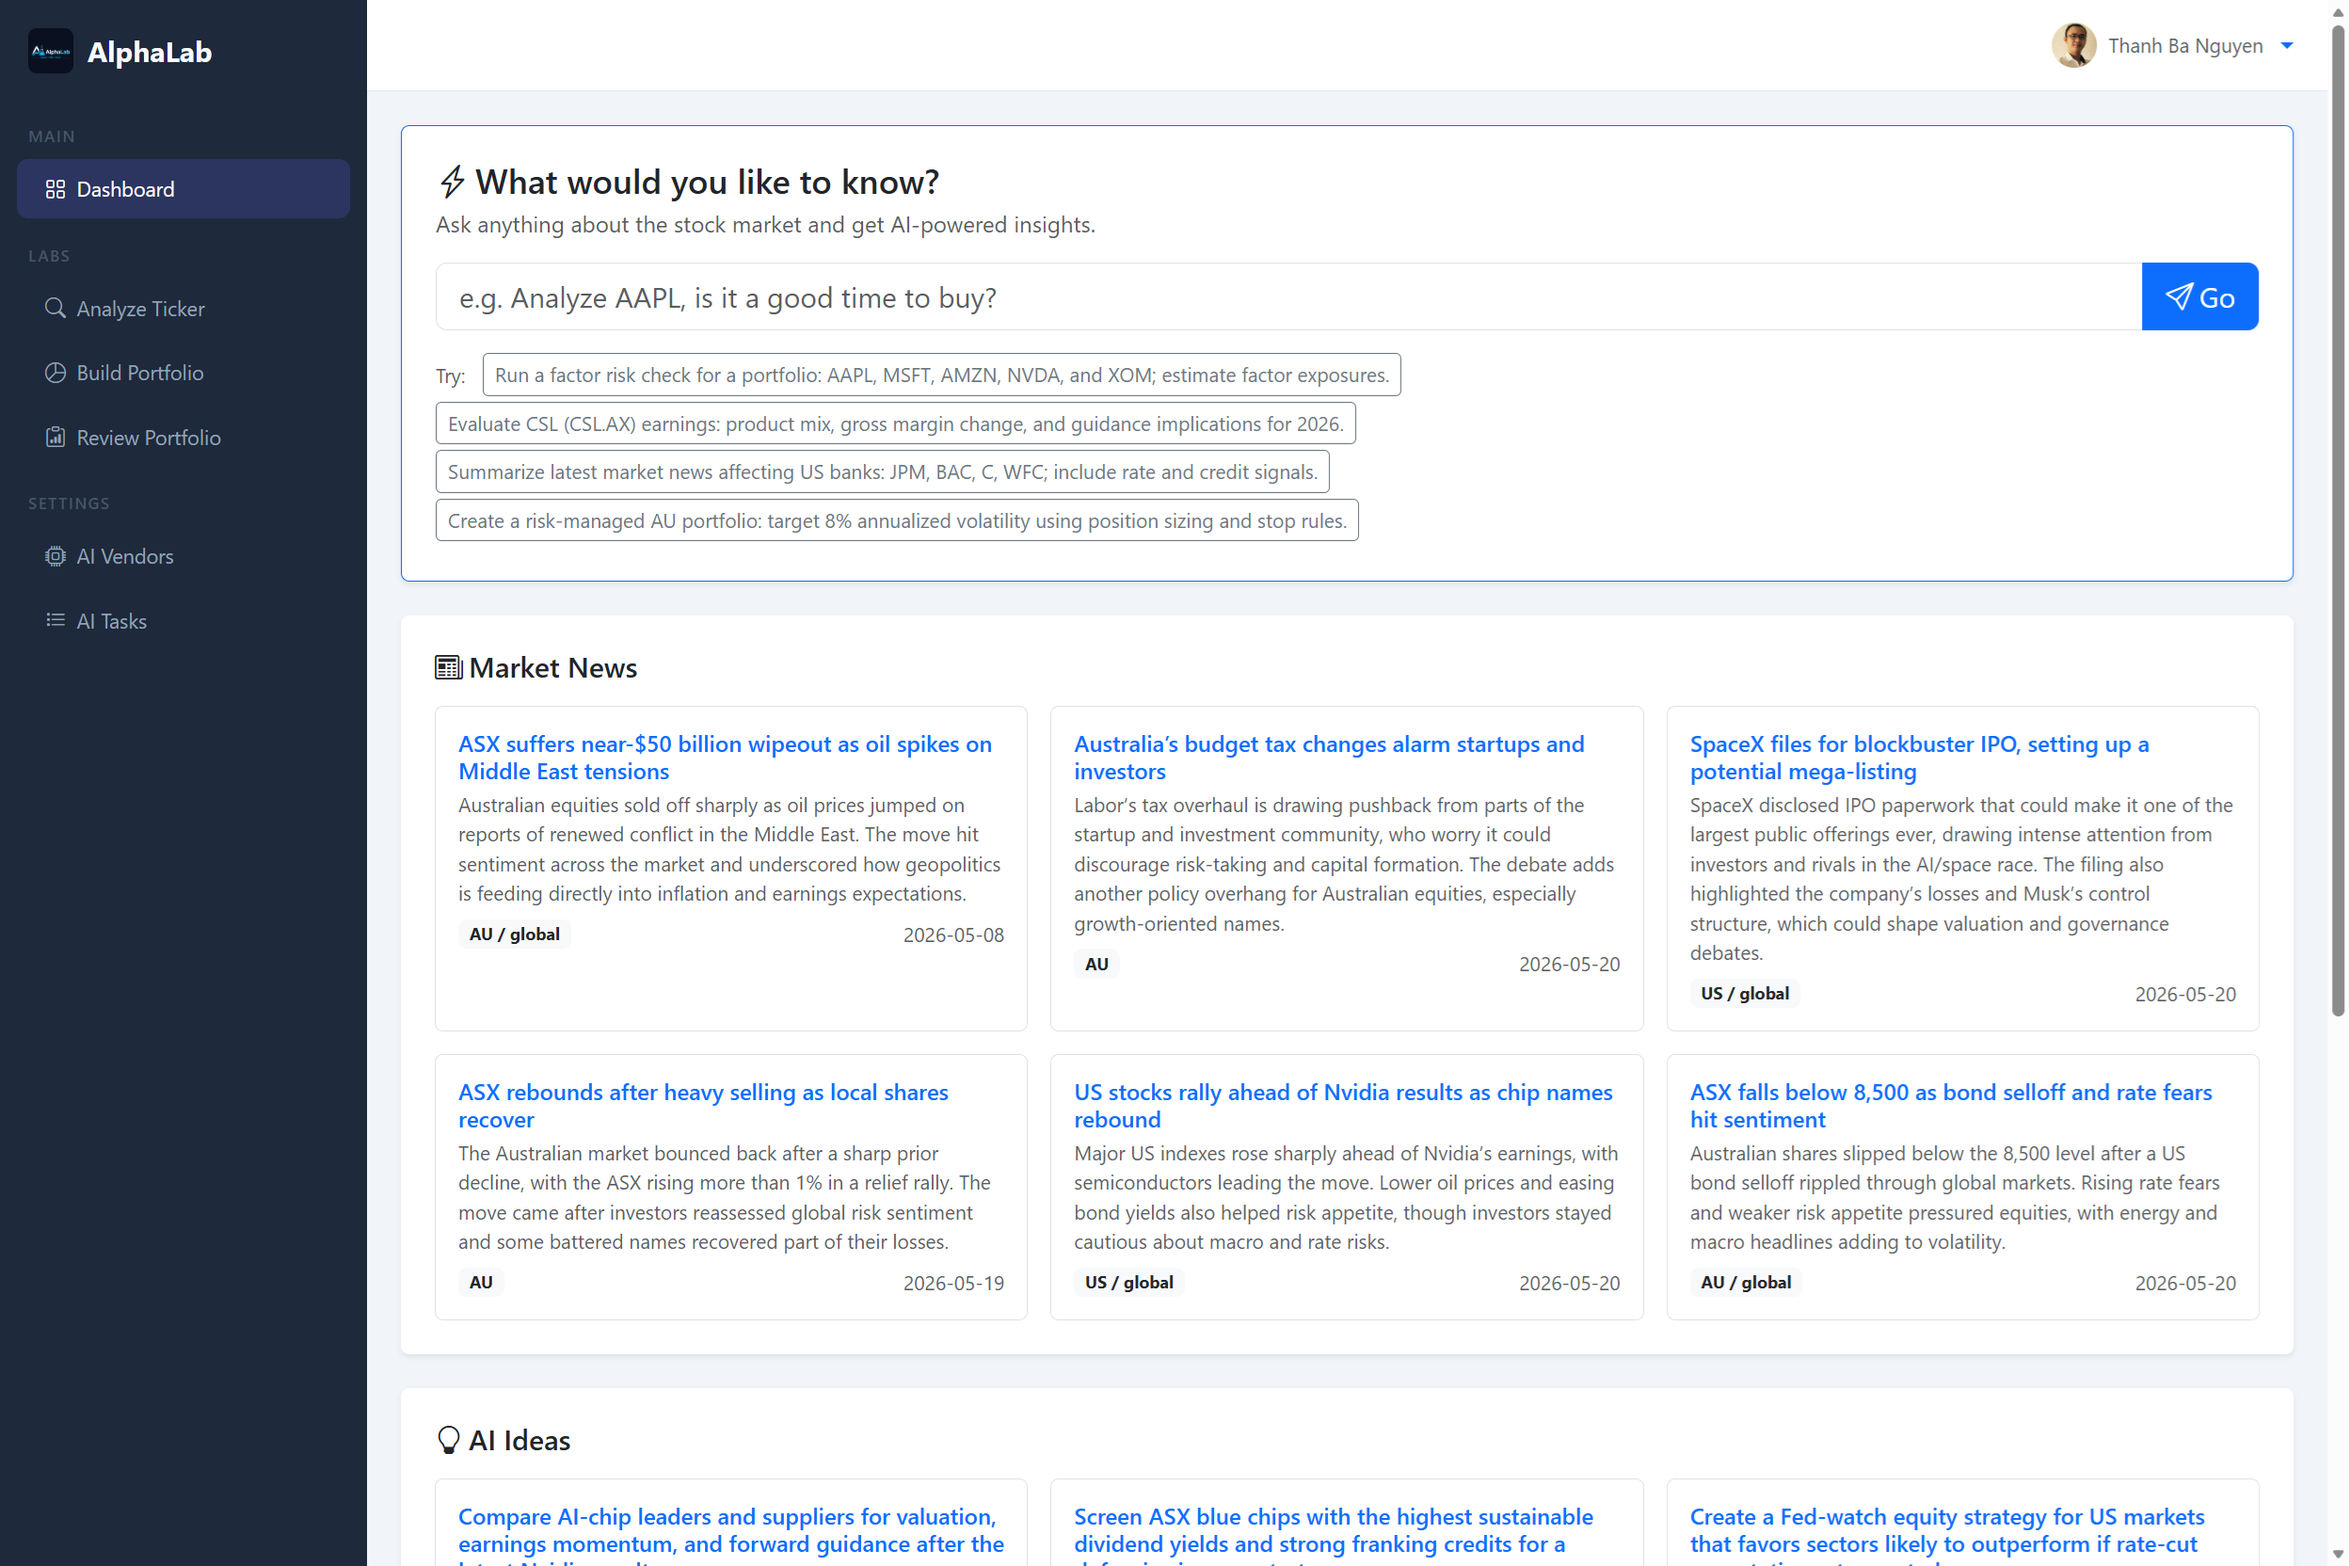
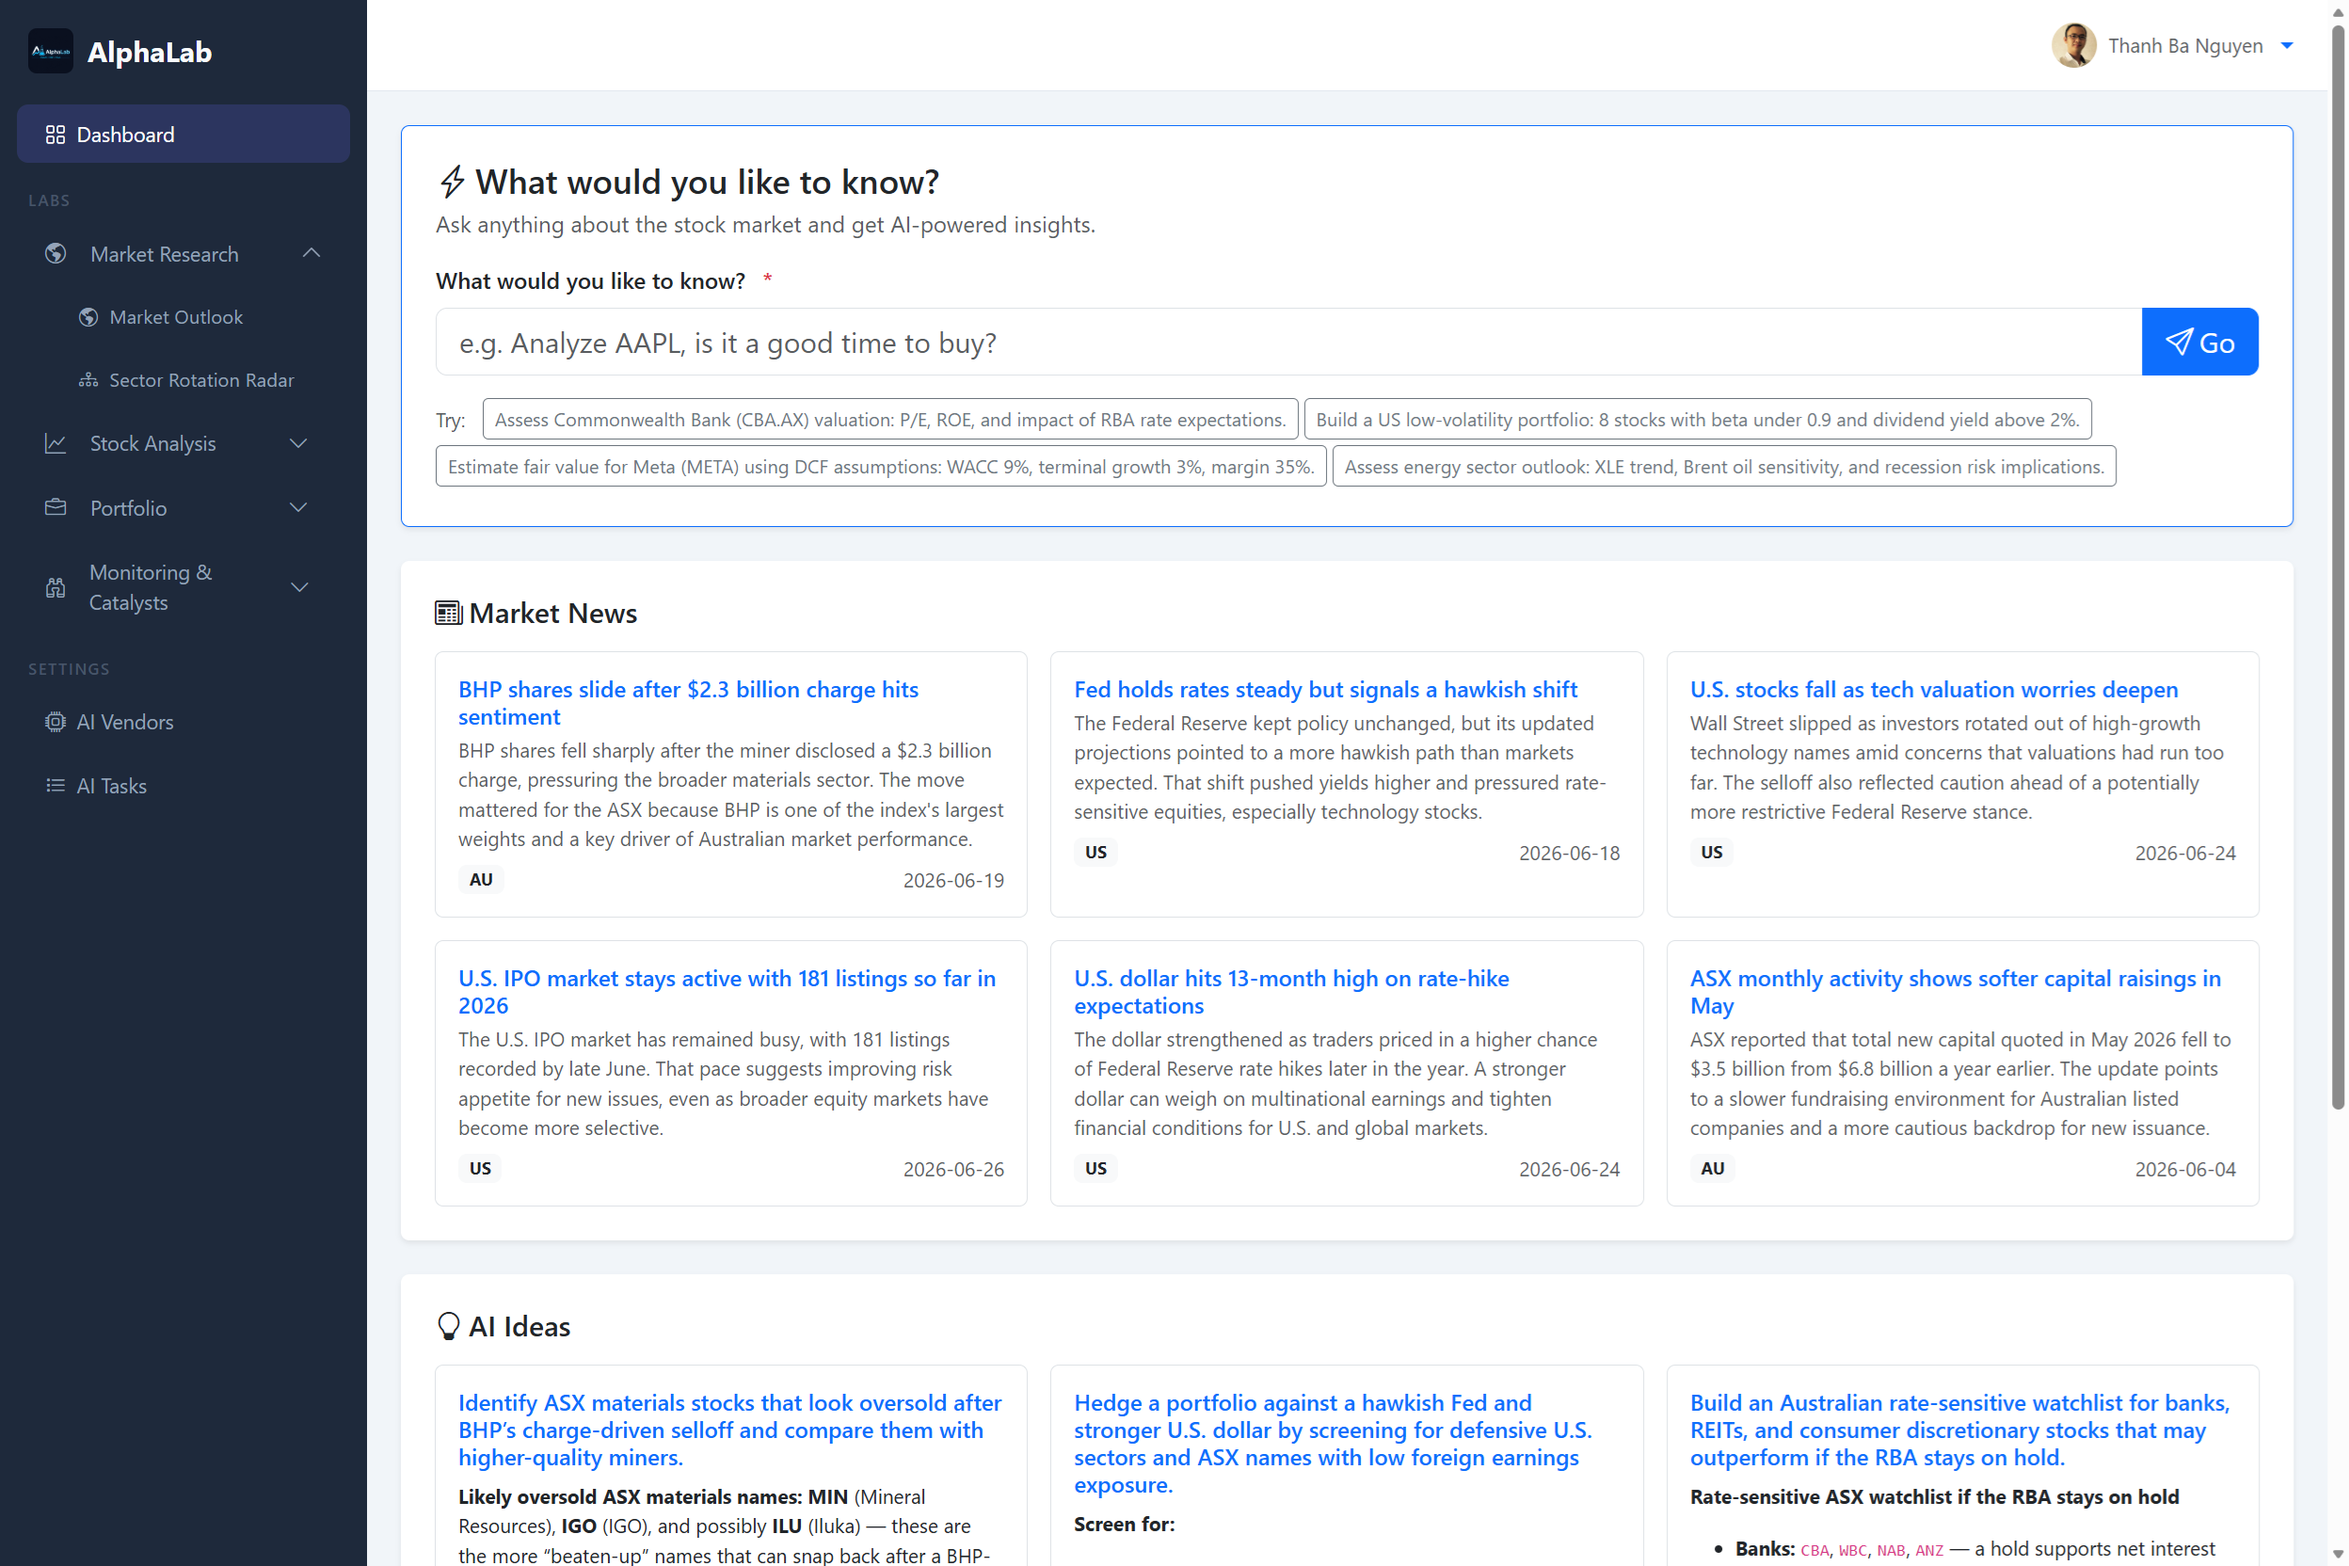
Add feature Earnings Catalyst Tracker

diff --git a/tests/test_earnings_catalyst_tracker_prompt.py b/tests/test_earnings_catalyst_tracker_prompt.py
@@ -1,0 +1,16 @@
+"""Unit tests for the earnings catalyst tracker prompt builder."""
+
+from app.routers import earnings_catalyst_tracker
+
+
+class TestEarningsCatalystTrackerPrompt:
+    def test_uses_default_target_market_and_event_focus_when_missing(self) -> None:
+        prompt = earnings_catalyst_tracker._build_prompt_request(
+            tickers="AAPL, MSFT",
+            target_market="",
+            event_focus="",
+        )
+
+        assert "- Tickers: AAPL, MSFT" in prompt
+        assert "- Target market: US" in prompt
+        assert "- Event focus: All upcoming earnings catalysts" in prompt

diff --git a/README.md b/README.md
@@ -6,10 +6,24 @@ AI-powered market research lab.
 
 ## ✨Features
 
+- **Dashboard (Freestyle Mode)** Ask anything about the stock market in natural language and get AI-powered insights, plus a market news feed and AI-generated ideas.
+
+**Market Research**
+- **Market Outlook** Get an AI-generated outlook across one or more markets, covering index movements, sector rotations, and macro drivers.
+- **Sector Rotation Radar** Identify which sectors are gaining or losing momentum across multiple time horizons for a target market.
+
+**Stock Analysis**
 - **Analyze Ticker** Perform AI-driven analysis for individual stocks or ETFs using market data, technical signals, macro context, and sentiment insights.
+- **IPO / Listing Event** Analyze an upcoming or recent IPO / listing event, including valuation, risks, and outlook.
+- **Dividend Event** Evaluate a dividend event with yield, sustainability, ex-dividend timing, and tax considerations.
+
+**Portfolio**
 - **Build Portfolio** Generate a portfolio from scratch based on investor goals, risk tolerance, time horizon, market preference, and investment themes.
-- **Review Portfolio** Review an existing portfolio and identify strengths, weaknesses, concentration risks, and optimization opportunities.
-- **Freestyle Mode** Interact with the AI freely using natural language prompts for custom market research and investment exploration.
+- **Review Portfolio** Review an existing portfolio and identify strengths, weaknesses, concentration risks, and optimization opportunities, with optional scenario stress-testing.
+
+**Monitoring & Catalysts**
+- **Watchlist Monitor** Review a watchlist and flag which names deserve attention, with news, technicals, valuation, and risk/reward framing.
+- **Earnings Catalyst Tracker** Track upcoming earnings and event catalysts that can move stocks quickly, including surprise potential and what to watch.
 
 ### Screenshots
 
